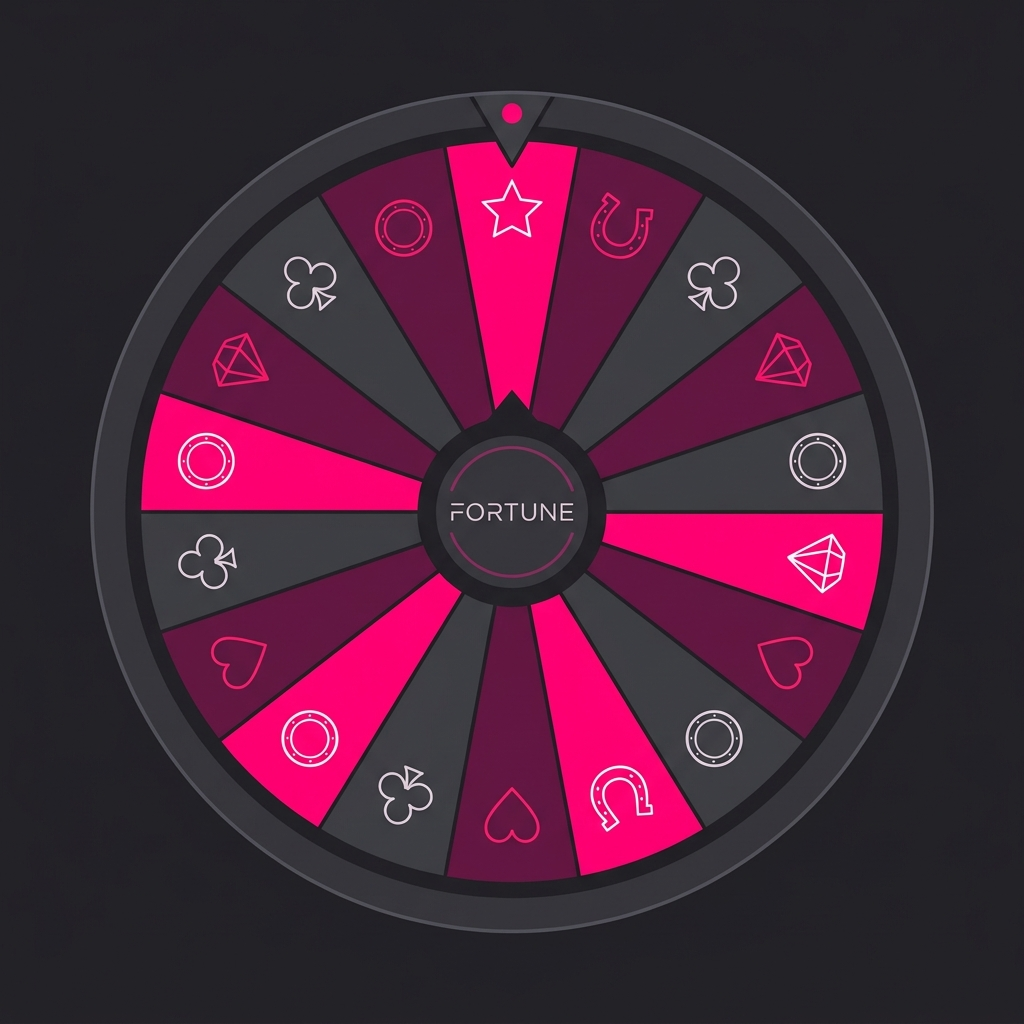
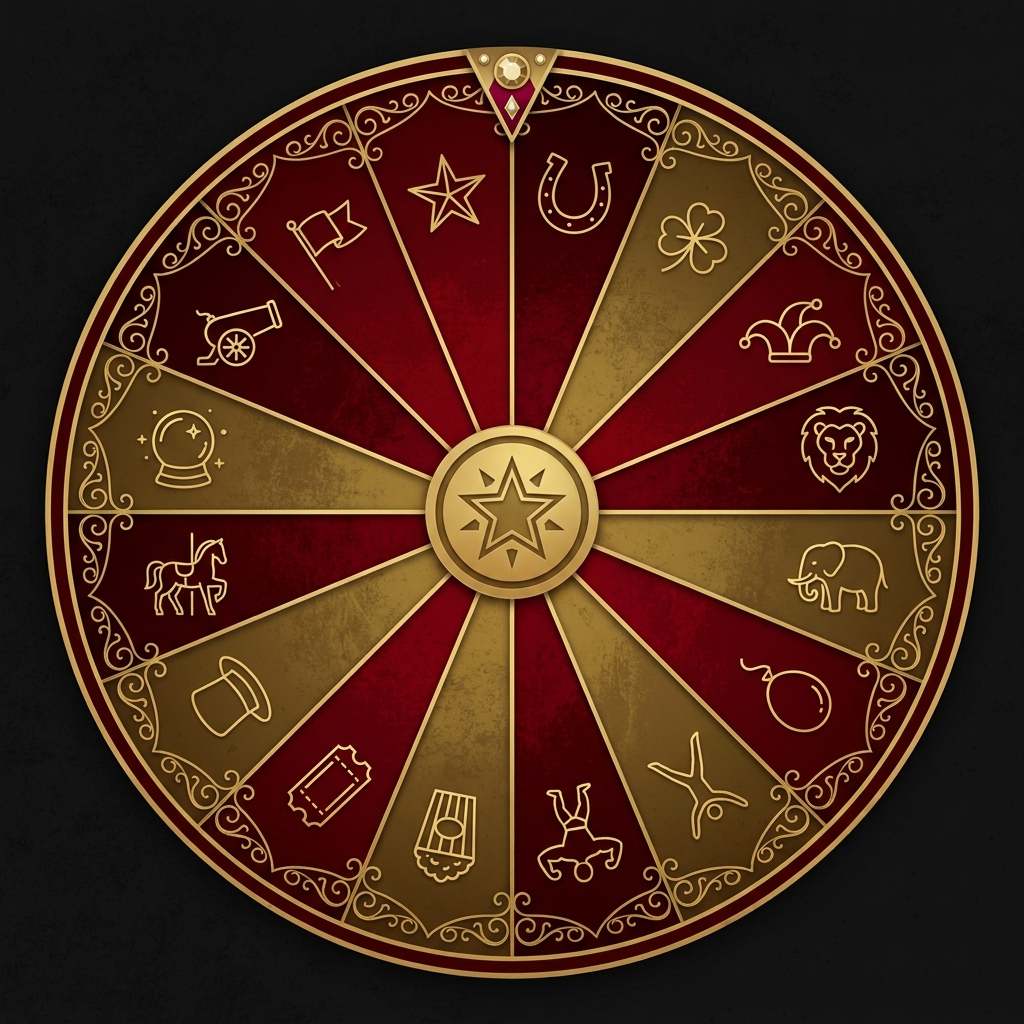
feat:cambio ruleta

diff --git a/games/random-lucky/script.js b/games/random-lucky/script.js
@@ -11,16 +11,16 @@
               "hoy es un día perfecto para empezar algo nuevo.",
               "tu carisma atraerá buenas oportunidades.",
               "recibirás una noticia que cambiará tu semana para mejor.",
-              "la fortuna te sonríe: confía en tu intuición.",
+              "la suerte te persigue pero tu eres más rápido",
               "alguien especial está pensando en ti ahora mismo.",
               "tu próximo deseo se cumplirá antes de lo que imaginas.",
-              "hoy descubrirás un talento oculto que tienes.",
+              "hoy descubrirás un talento oculto que tienes (callarte).",
               "la energía positiva que envías volverá a ti multiplicada.",
-              "un pequeño gesto cambiará el rumbo de tu día.",
+              "deja de jugar a la ruleta y ponte a trabajar.",
               "tendrás la respuesta que llevas tiempo buscando.",
               "hoy es tu día de suerte, atrévete a soñar a lo grande.",
               "recibirás un cumplido que te alegrará el corazón.",
-              "el universo conspira a tu favor, sigue adelante.",
+              "brillas por tu ausencia",
               "una aventura inesperada te espera a la vuelta de la esquina.",
               "hoy todo te saldrá bien, ¡disfrútalo al máximo!",
               "tu sonrisa tiene el poder de alegrar el día de alguien."

diff --git a/games/random-lucky/style.css b/games/random-lucky/style.css
@@ -124,23 +124,7 @@
               -webkit-user-drag: none;
           }
 
-          /* Centro de la ruleta */
-          .wheel-center {
-              position: absolute;
-              top: 50%;
-              left: 50%;
-              transform: translate(-50%, -50%);
-              width: 70px;
-              height: 70px;
-              background: #fff;
-              border-radius: 50%;
-              box-shadow: 0 4px 12px rgba(0, 0, 0, 0.25);
-              display: flex;
-              justify-content: center;
-              align-items: center;
-              font-size: 2em;
-              z-index: 5;
-          }
+        
 
           /* ===== ZONA DE ACCIÓN (BOTÓN + CONTADOR) ===== */
           .action-bar {

diff --git a/games/random-lucky/index.html b/games/random-lucky/index.html
@@ -51,7 +51,6 @@
                     width="400"
                     height="400"
                 >
-                <div class="wheel-center" aria-hidden="true">⭐</div>
             </figure>
 
             <!-- Botón principal: gira la ruleta -->
